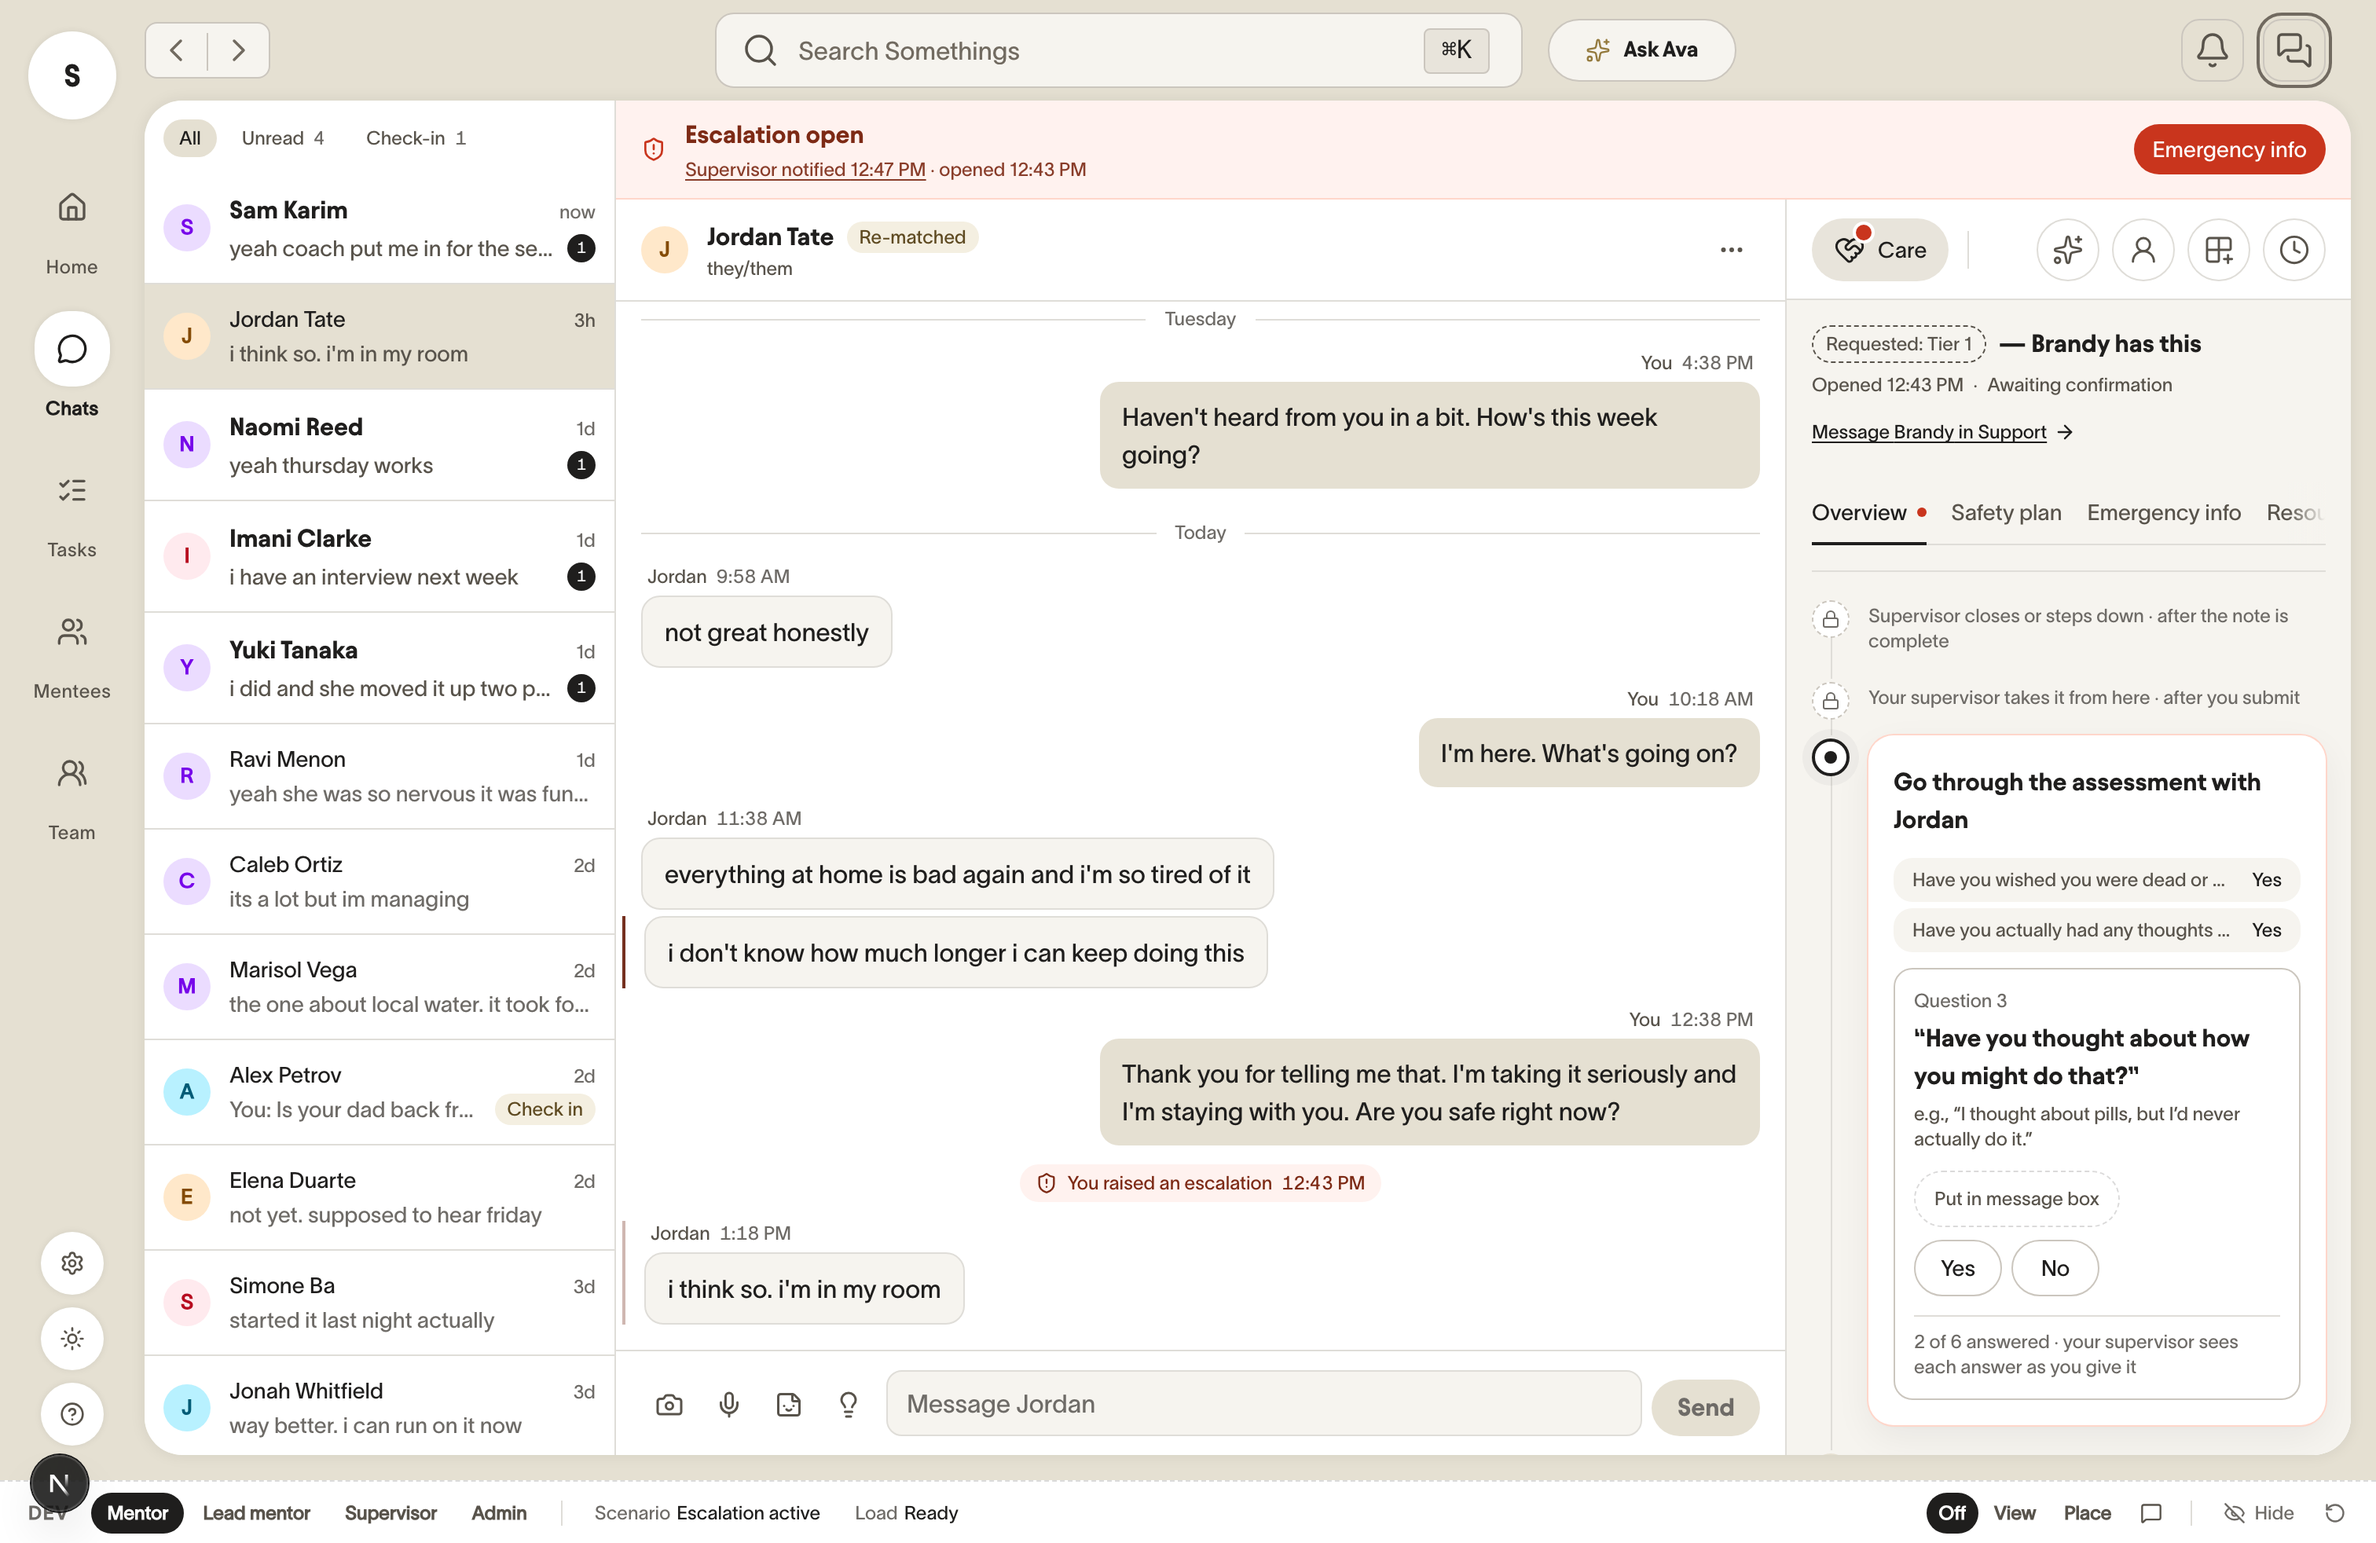
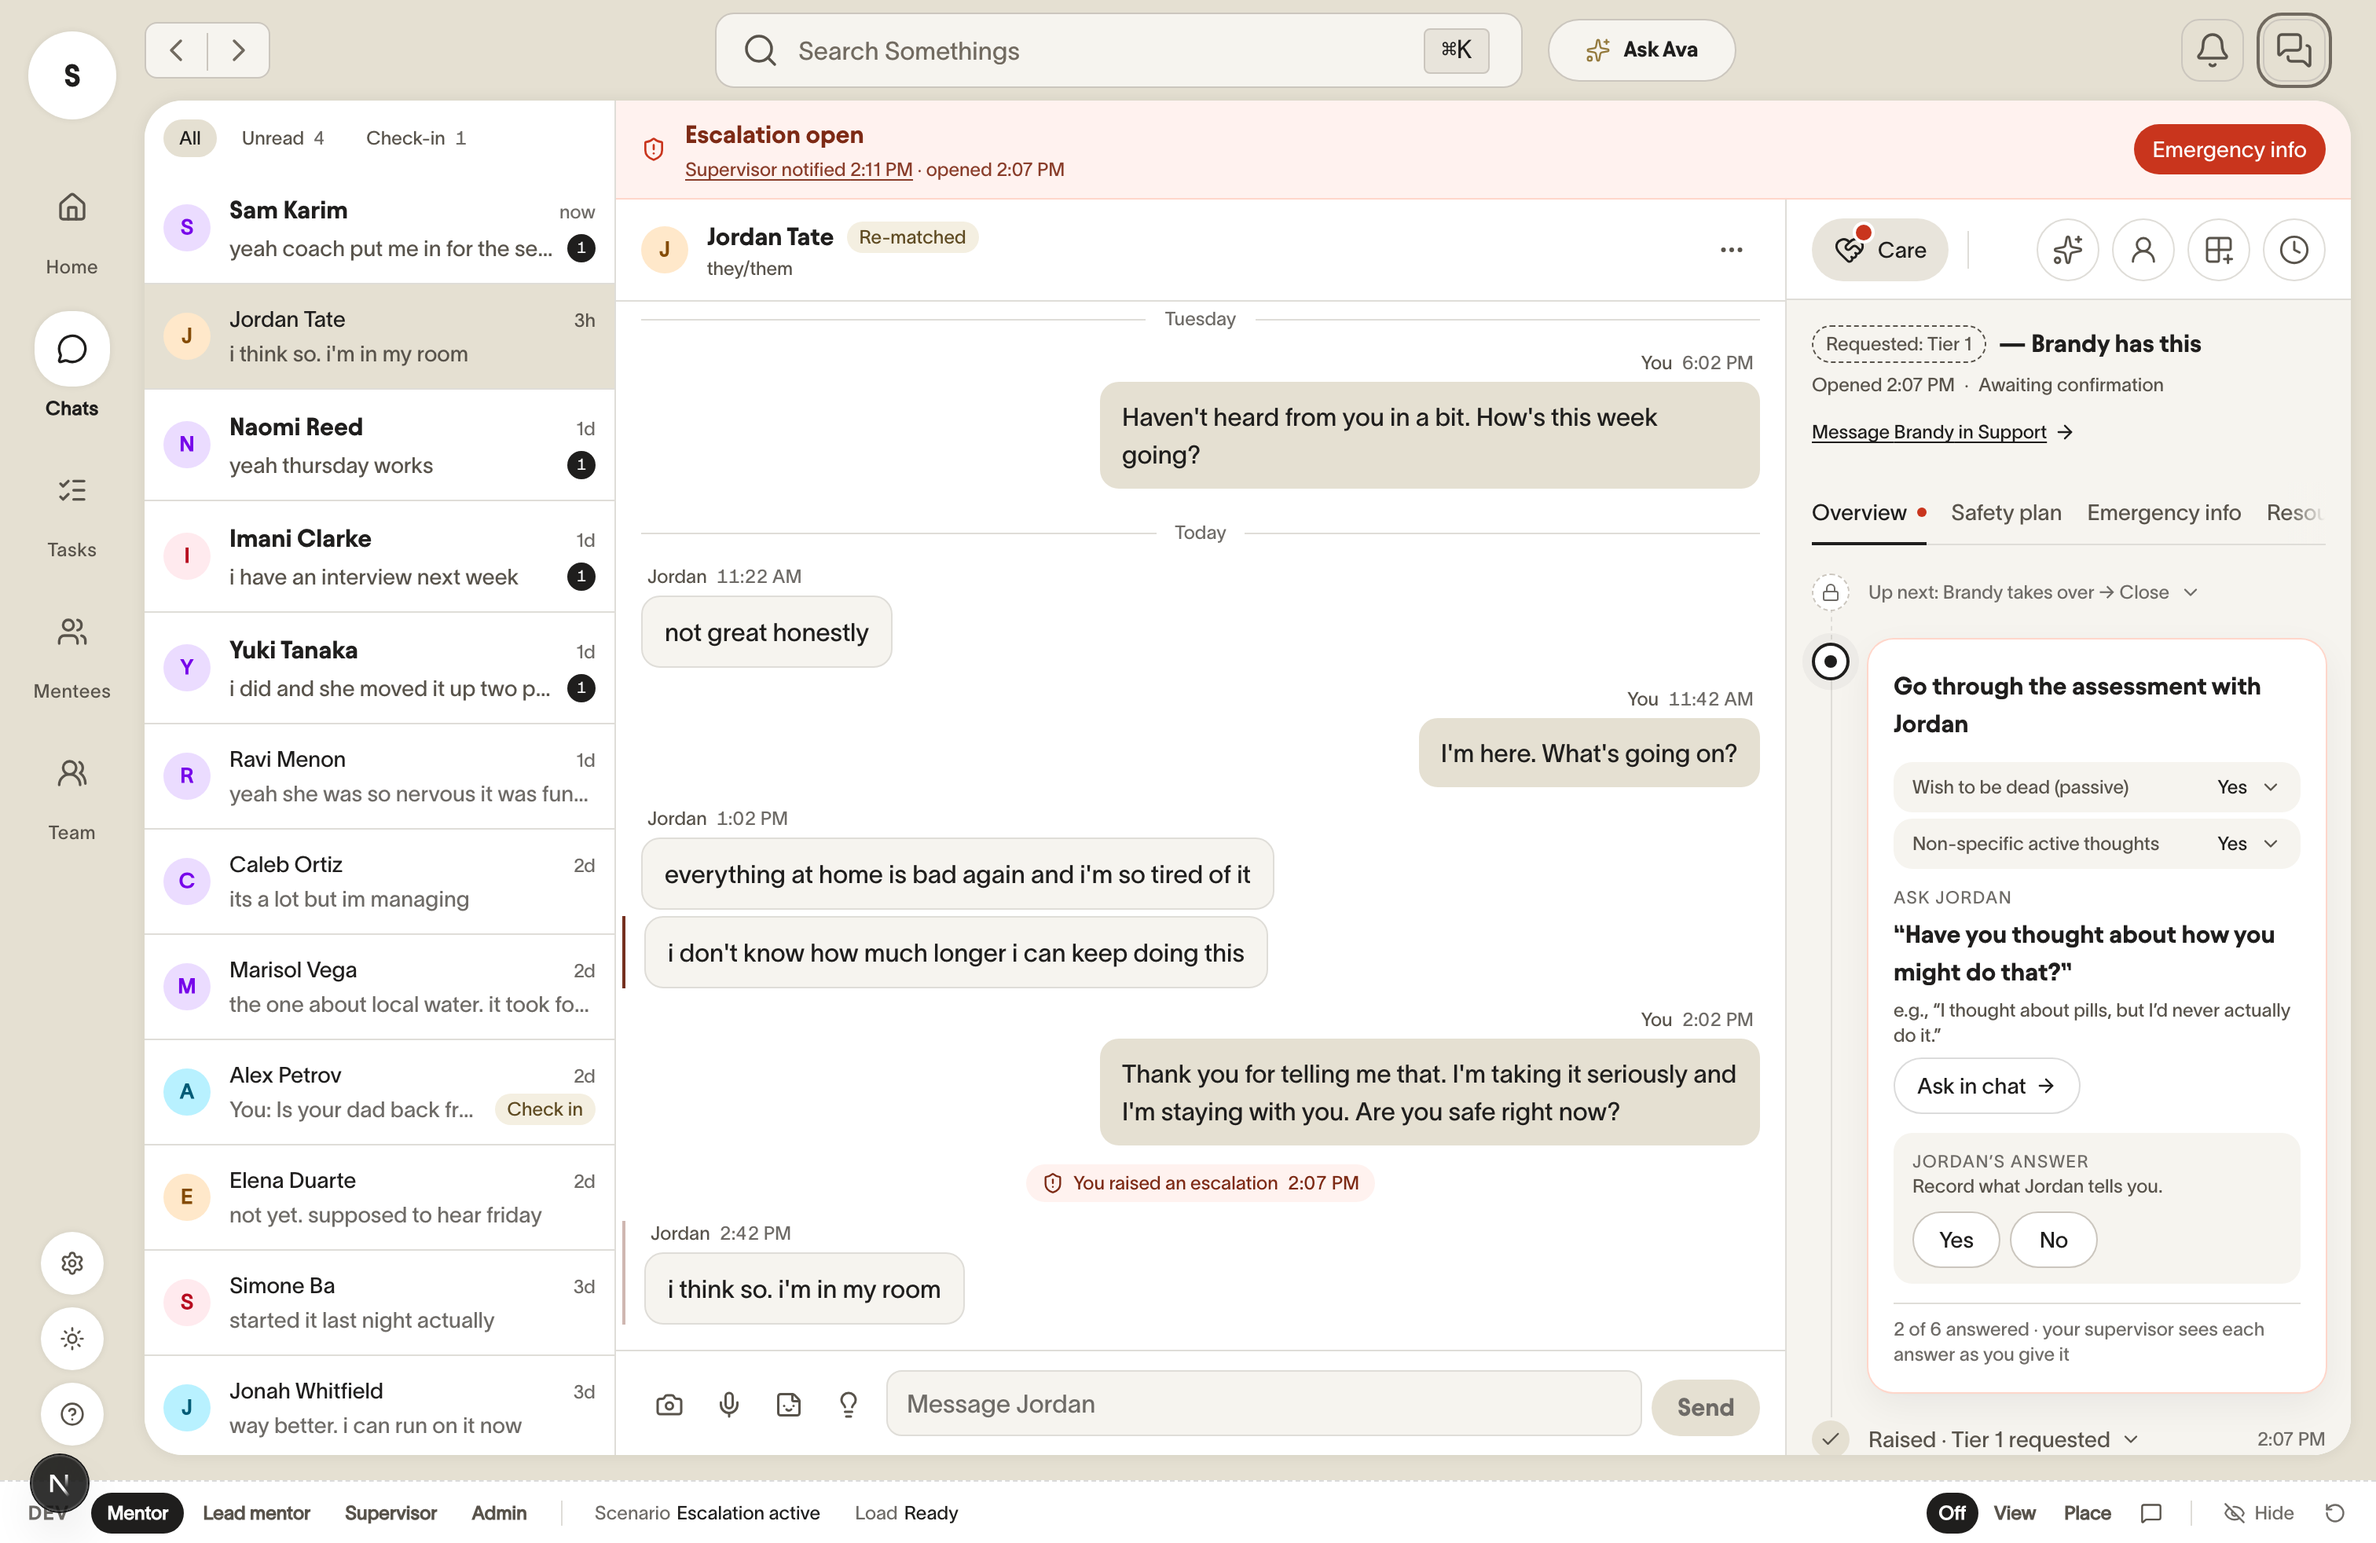
docs(care-elevation): the v4.0 report, probe artifacts and squint shots

diff --git a/docs/responsive/care-elevation/REPORT.md b/docs/responsive/care-elevation/REPORT.md
@@ -1,0 +1,128 @@
+# Care Panel & Escalation — Elevation (pack v4.0): report
+
+Branch `feat/care-elevation`, from `main` @ 5bc6caa. Local commits only, nothing pushed.
+
+| Commit | Phase |
+|---|---|
+| 9b47415, ddfe65c | 1: hero, Teen Status card, one emphasis, underline tabs |
+| 2f9e91d | 2: Up next row, node grammar, the two-zone question card |
+| 5606c8d | 3: While you're with them |
+| 3bd277c | 4: History (both hosts), close arc, asked-question glyph, AGENTS.md |
+
+## 1. Files
+
+**New**
+- `chat/rail/teen-status-card.tsx`
+- `chat/escalation/waiting-module.tsx`
+- `chat/escalation/quote.tsx` (moved out of the exchange)
+- `chat/escalation/close-toast.ts`
+- `lib/chat/stay-close.ts`, with tests
+- `scripts/responsive/care-elevation.mjs`
+
+**Changed**
+- `chat/rail/care.tsx`
+- `chat/rail/rail.tsx`
+- `chat/escalation/exchange.tsx`
+- `chat/chat-page.tsx`
+- `chat/thread/{thread,message-bubble}.tsx`
+- `tiering/tier-history.tsx`
+- `tiering/tier-card.tsx` (`timeInTier` exported)
+- `record/record-tier.tsx`
+- `lib/chat/types.ts` (`MessageOrigin`)
+- `globals.css` (`.tier-cell-arrive`, `.node-breath`)
+
+**Retired, and deleted rather than hidden**
+- the timeline header (`TimelineHeader`)
+- the rail presence strip
+- the Care pill chips
+- per-row upcoming ghosts in `Node`
+- the History arrow chain
+- truncation on completed rows and answered rows
+- the nested question card
+
+## 2. Surface tokens and contrast (WCAG)
+
+| Pair | Light | Dark |
+|---|---|---|
+| text-primary on card / s1 | 16.64 / 15.14 | 13.30 / 15.43 |
+| text-secondary on card / s1 | 7.63 / 6.94 | 6.16 / 7.15 |
+| text-muted on card / s1 | 5.30 / 4.82 | 4.71 / 5.47 |
+| card vs s1 (the surface step) | 1.10 | 1.16 |
+| current ring, alert (`--alert-critical-border`) vs card | 1.34 | 1.50 |
+| current ring, neutral (`--border-default`) vs card | 1.70 | 1.74 |
+
+The surface ladder is:
+- the thread on `surface-card`
+- the Care body on `surface-s1`
+- the cards on `surface-raised` (`--el-soft`)
+
+The rings fall below 3:1. They are never the only cue: the ink glyph (16:1), the raised surface and the live "Now: …" announcement also mark the current step.
+
+## 3. Filled buttons per state (measured by `care-elevation.mjs`)
+
+| State | Mentor | Supervisor |
+|---|---|---|
+| Steady | 0 | 0 |
+| Raising | 1 (Confirm escalation) | — |
+| Assessing, mid-question | 0 | 0 (S0, waiting) |
+| Assessment complete | 1 (Submit to supervisor) | — |
+| Waiting (M3) | 0 | — |
+| Confirm (S1) | — | 1 (Confirm Tier N) |
+| Note sections, outcome, debrief, close | — | 1 each (Continue / …) |
+| Closed summary (M4) | 1 (Back to Care) | — |
+
+The Emergency info tab's Call 911 is the canon's primary. It sits on its own tab and is not counted against Overview.
+
+## 4. Single homes
+
+| Fact | Its one home |
+|---|---|
+| Supervisor notified | the banner |
+| Who holds it ("— Brandy has this" / "— with {mentor}") | the hero |
+| Presence ("Brandy is here") | the hero |
+| Tier, request, confirmation, close movement | the hero (lozenge and meta line) |
+| The Support door | the hero; the waiting module's Open Support while the mentor waits (the hero hides its own) |
+| Platform concern | the hero chip (the state reads "In review", not "Platform concern · in review") |
+| What comes next | the Up next row |
+
+## 5. Truncation audit
+
+- **Timeline:** `care-elevation` asserts that nothing in it has `text-overflow: ellipsis` with overflow, at the assessment, waiting and note stages.
+- **Completed rows:** they wrap.
+- **Answered rows:** they show the `assesses` label, with the question verbatim on expand.
+- **Note sections:** a section's summary is a whole second line.
+- **Moments:** a moment's quote moved to its expansion.
+- **History:** stages are unbreakable phrases, and long reasons clamp to two lines with Show more (the one sanctioned clamp).
+
+## 6. Keyboard and screen reader
+
+- **Care tabs:** a single tab stop. ←/→/Home/End move the selection and scroll it into view.
+- **Up next:** a button with `aria-expanded` and `aria-controls`. The steps stay in the DOM, `hidden` while collapsed.
+- **Answered rows:** buttons with `aria-expanded`.
+- **Question:** the question is a polite atomic live region, and its label carries "· Question n of 6" for screen readers.
+- **Yes / No:** a labelled group of buttons, never radios.
+- **Corner glyph:** a named button ("Assessment question 5 — open the assessment").
+- **Nudges:** buttons; their used state is announced through the label change to "In message box".
+- **Motion:** the breath, the arrival and the settle are all off under reduced motion.
+
+## 7. Squint test
+
+`squint-{light,dark}-{steady,requested,confirmed}-{mentor,supervisor}.png` are in this folder. Each state has one dominant element: the hero card while steady, and the ringed current node during an escalation.
+
+## 8. Mutation testing
+
+| Phase | Killed |
+|---|---|
+| 1 | 10/10 |
+| 2 | 12/12 (CSS mutants need the watcher to settle) |
+| 3 | 9/9 (the clinical-guard mutant is also killed by the unit test) |
+| 4 | 11/12 |
+
+The Phase 4 survivor is "no settle to Overview". It is effectively equivalent: every close control lives on Overview, so the tab switch is a no-op on every reachable path.
+
+## 9. Deferred, with reasons
+
+- **The record's `TierCard`:** it is unchanged (answered: chat only), and still tints its whole card for Tiers 1–2.
+- **Toast copy vs the blocked constant:** the toast says "Tier 3 Medium risk" (the pack's words, from `TIER_NAME`), while the blocked `CLOSE_OUT_TIER_COPY` says "Tier 3 Monitoring". This is flagged, not resolved.
+- **The `CLINICAL` guard:** it is a wordlist and is not a clinical review. Nudge copy is TODO-COPY.
+- **Toast memory:** the mentor's "once" is per browser session (sessionStorage). It is not on the record, by design.
